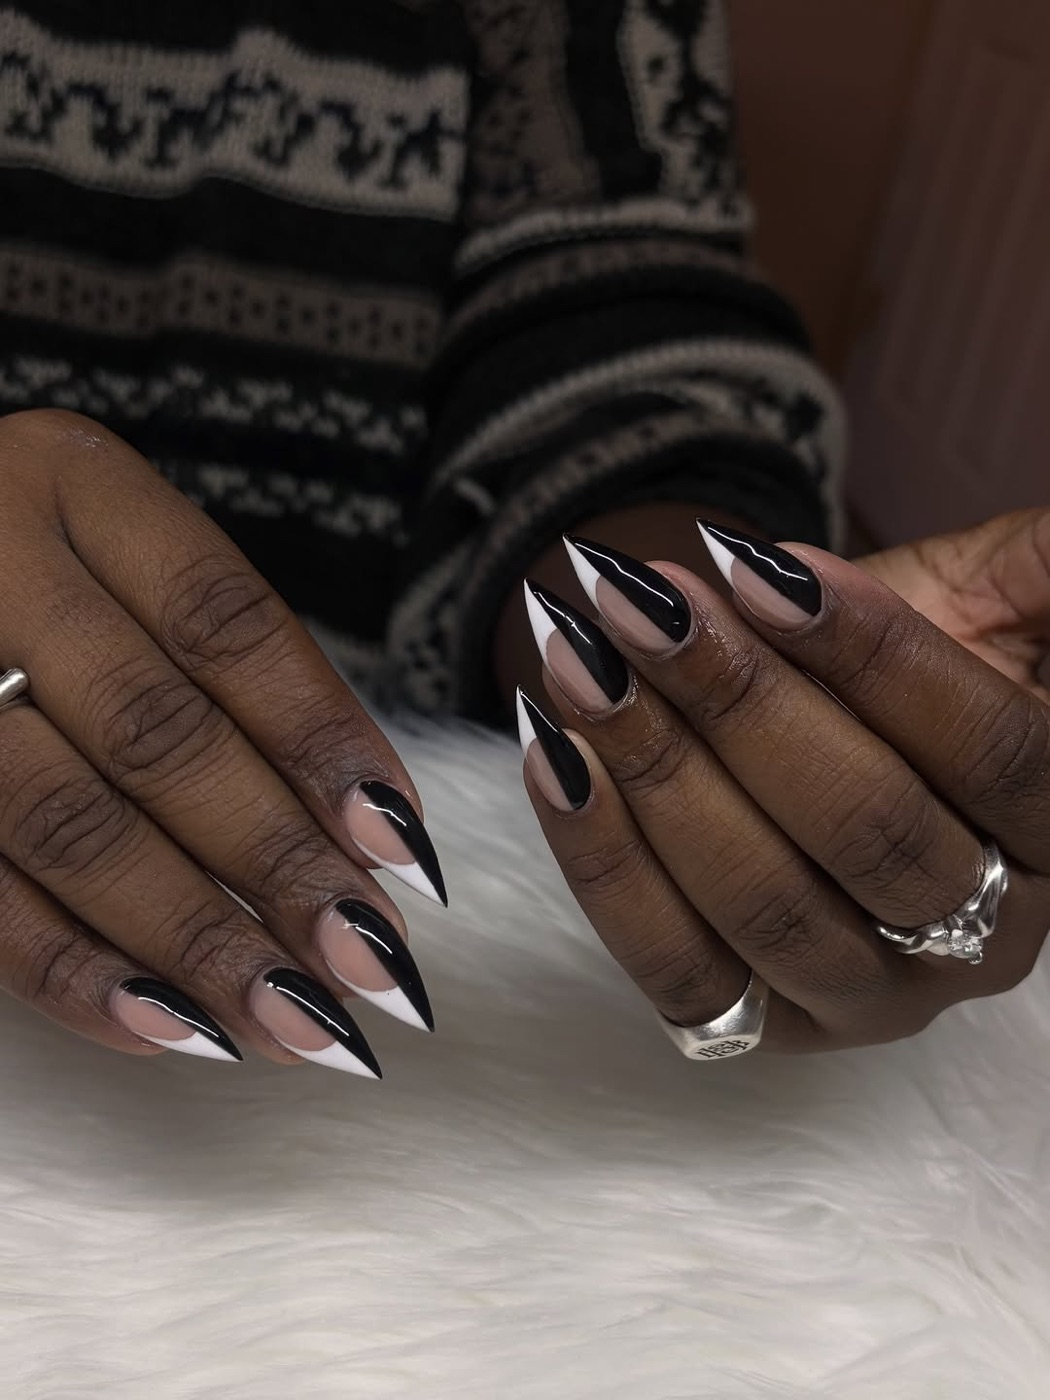
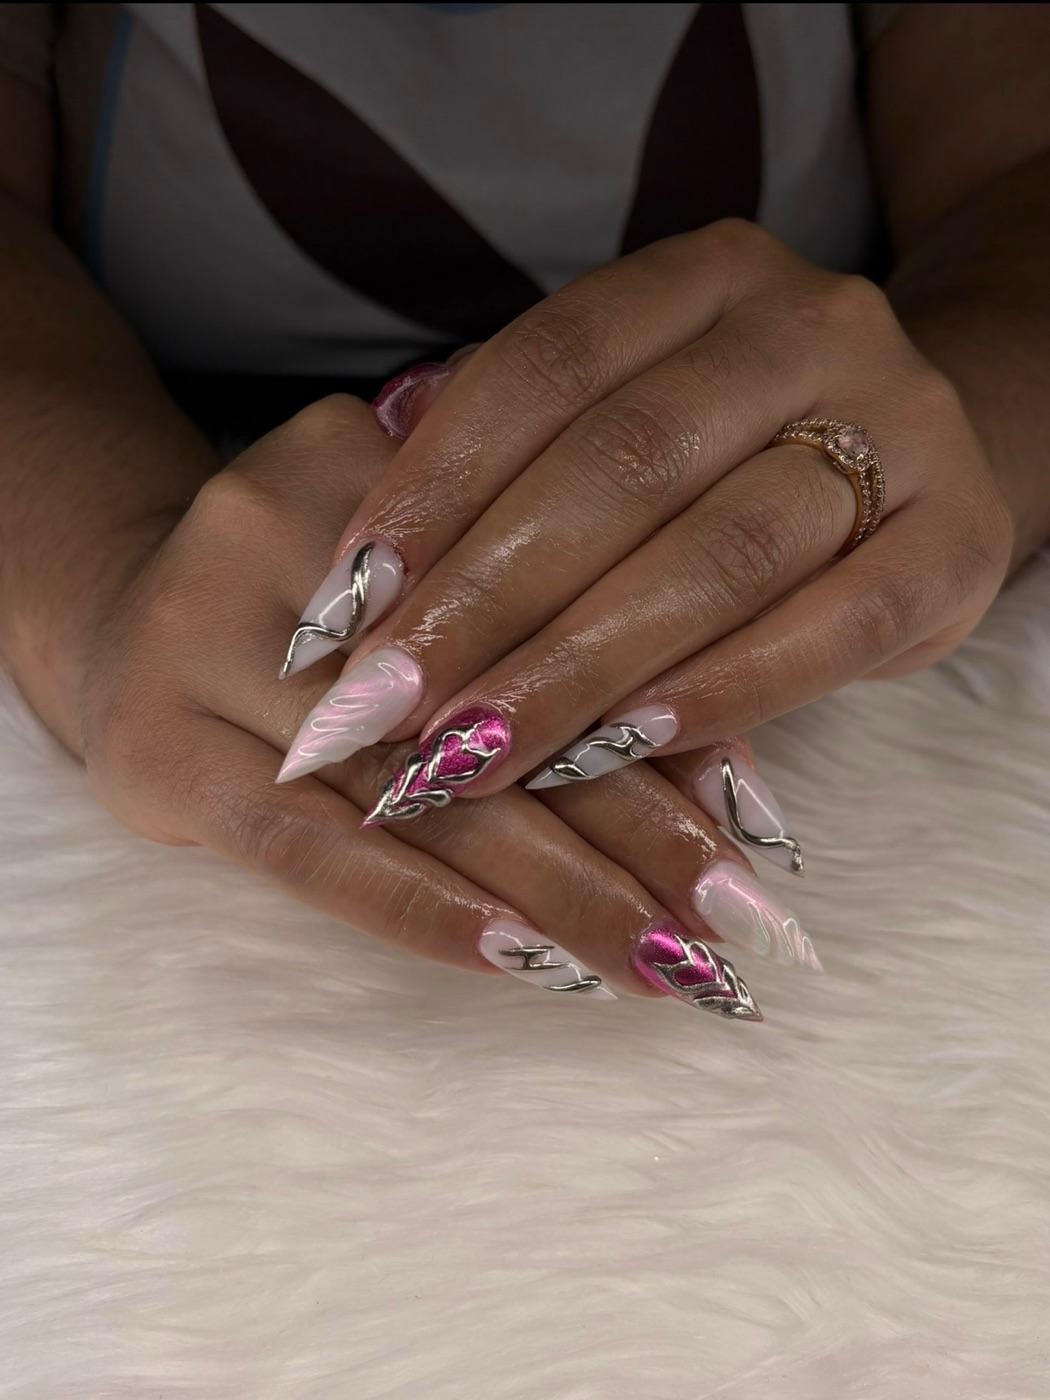
New client photos: hero + service cards; add Acrylic Fill, Gel-X Fill, split Mani & Pedi into Manicure/Pedicure (slots H/J/K)
Claude-Session: https://claude.ai/code/session_015TiHRKVxPHHGe8rpmT9PLr

diff --git a/index.html b/index.html
@@ -286,6 +286,15 @@
           <a class="btn" href="#" data-book data-service="Acrylic Full Set">Book this</a>
         </div>
       </article>
+      <article class="svc reveal" data-service="Acrylic Fill">
+        <div class="svc-img"><img src="assets/site/H.jpg" alt="Acrylic fill"></div>
+        <div class="svc-body">
+          <h3>Acrylic Fill</h3>
+          <span class="dep">Deposit required</span>
+          <div class="svc-row"><span class="price"><span class="from">from</span>$45</span><span class="dur">Short → XL</span></div>
+          <a class="btn" href="#" data-book data-service="Acrylic Fill">Book this</a>
+        </div>
+      </article>
       <article class="svc reveal" data-service="Gel-X Full Set">
         <div class="svc-img"><img src="assets/site/D.jpg" alt="Gel-X full set"></div>
         <div class="svc-body">
@@ -293,6 +302,15 @@
           <span class="dep">Deposit required</span>
           <div class="svc-row"><span class="price"><span class="from">from</span>$45</span><span class="dur">Short → XL</span></div>
           <a class="btn" href="#" data-book data-service="Gel-X Full Set">Book this</a>
+        </div>
+      </article>
+      <article class="svc reveal" data-service="Gel-X Fill">
+        <div class="svc-img"><img src="assets/site/J.jpg" alt="Gel-X fill"></div>
+        <div class="svc-body">
+          <h3>Gel-X Fill</h3>
+          <span class="dep">Deposit required</span>
+          <div class="svc-row"><span class="price"><span class="from">from</span>$40</span><span class="dur">Short → XL</span></div>
+          <a class="btn" href="#" data-book data-service="Gel-X Fill">Book this</a>
         </div>
       </article>
       <article class="svc reveal" data-service="Builder Gel">
@@ -304,14 +322,22 @@
           <a class="btn" href="#" data-book data-service="Builder Gel">Book this</a>
         </div>
       </article>
-      <!-- TODO: no mani/pedi photo in her feed — swap for a real mani/pedi shot from Mari -->
-      <article class="svc reveal" data-service="Mani & Pedi">
-        <div class="svc-img"><img src="assets/site/F.jpg" alt="Mani and pedi"></div>
+      <article class="svc reveal" data-service="Gel Mani">
+        <div class="svc-img"><img src="assets/site/F.jpg" alt="Manicure"></div>
         <div class="svc-body">
-          <h3>Mani &amp; Pedi</h3>
+          <h3>Manicure</h3>
           <span class="dep">Deposit required</span>
-          <div class="svc-row"><span class="price"><span class="from">from</span>$25</span><span class="dur">Toes &amp; hands</span></div>
-          <a class="btn" href="#" data-book data-service="Mani & Pedi">Book this</a>
+          <div class="svc-row"><span class="price"><span class="from">from</span>$25</span><span class="dur">Gel mani</span></div>
+          <a class="btn" href="#" data-book data-service="Gel Mani">Book this</a>
+        </div>
+      </article>
+      <article class="svc reveal" data-service="Gel Pedi">
+        <div class="svc-img"><img src="assets/site/K.jpg" alt="Pedicure"></div>
+        <div class="svc-body">
+          <h3>Pedicure</h3>
+          <span class="dep">Deposit required</span>
+          <div class="svc-row"><span class="price"><span class="from">from</span>$35</span><span class="dur">Gel pedi</span></div>
+          <a class="btn" href="#" data-book data-service="Gel Pedi">Book this</a>
         </div>
       </article>
     </div>
@@ -338,12 +364,19 @@
           <p class="pl-note">Soak-off after 3rd fill.</p>
         </div>
         <div class="pl-col">
-          <h4>Gel-X</h4>
+          <h4>Gel-X — Full Set</h4>
           <ul>
             <li><span class="name">Short</span><span class="lead"></span><span class="amt">$45</span></li>
             <li><span class="name">Medium</span><span class="lead"></span><span class="amt">$55</span></li>
             <li><span class="name">Long</span><span class="lead"></span><span class="amt">$65</span></li>
             <li><span class="name">XL</span><span class="lead"></span><span class="amt">$75+</span></li>
+          </ul>
+          <h4>Gel-X — Fill</h4>
+          <ul>
+            <li><span class="name">Short</span><span class="lead"></span><span class="amt">$40</span></li>
+            <li><span class="name">Medium</span><span class="lead"></span><span class="amt">$50</span></li>
+            <li><span class="name">Long</span><span class="lead"></span><span class="amt">$60</span></li>
+            <li><span class="name">XL</span><span class="lead"></span><span class="amt">$70+</span></li>
           </ul>
           <p class="pl-note">Soak-off after every set.</p>
           <h4>Builder Gel</h4>
@@ -498,7 +531,7 @@
 
 <script>
   const GHL_WIDGET_BASE = "https://api.leadconnectorhq.com/widget/booking/XC6BoVnM8Hzyq8bPdUR4";
-  const HANDS={"Acrylic Full Set":{Short:50,Medium:60,Long:70,XL:80},"Acrylic Fill":{Short:45,Medium:55,Long:65,XL:75},"Gel-X Full Set":{Short:45,Medium:55,Long:65,XL:75},"Builder Gel":{flat:45},"Gel Mani":{flat:25}};
+  const HANDS={"Acrylic Full Set":{Short:50,Medium:60,Long:70,XL:80},"Acrylic Fill":{Short:45,Medium:55,Long:65,XL:75},"Gel-X Full Set":{Short:45,Medium:55,Long:65,XL:75},"Gel-X Fill":{Short:40,Medium:50,Long:60,XL:70},"Builder Gel":{flat:45},"Gel Mani":{flat:25}};
   const FEET={"Gel Pedi":35,"Acrylic Big Toe":40,"Acrylic Toes (full set)":45};
   const ADDONS={"Soak off":10,"Foreign soak off":15};
   const LENGTHS=["Short","Medium","Long","XL"];

diff --git a/map.html b/map.html
@@ -55,7 +55,10 @@
     <div class="cell"><div class="ph"><img src="assets/site/C.jpg"></div><span class="badge">C</span><div class="cap"><b>Service:</b> Acrylic Full Set</div></div>
     <div class="cell"><div class="ph"><img src="assets/site/D.jpg"></div><span class="badge">D</span><div class="cap"><b>Service:</b> Gel-X Full Set</div></div>
     <div class="cell"><div class="ph"><img src="assets/site/E.jpg"></div><span class="badge">E</span><div class="cap"><b>Service:</b> Builder Gel</div></div>
-    <div class="cell"><div class="ph"><img src="assets/site/F.jpg"></div><span class="badge">F</span><div class="cap"><b>Service:</b> Mani &amp; Pedi</div></div>
+    <div class="cell"><div class="ph"><img src="assets/site/F.jpg"></div><span class="badge">F</span><div class="cap"><b>Service:</b> Manicure</div></div>
+    <div class="cell"><div class="ph"><img src="assets/site/H.jpg"></div><span class="badge">H</span><div class="cap"><b>Service:</b> Acrylic Fill</div></div>
+    <div class="cell"><div class="ph"><img src="assets/site/J.jpg"></div><span class="badge">J</span><div class="cap"><b>Service:</b> Gel-X Fill</div></div>
+    <div class="cell"><div class="ph"><img src="assets/site/K.jpg"></div><span class="badge">K</span><div class="cap"><b>Service:</b> Pedicure</div></div>
   </div>
 
   <h2>The Work gallery</h2>

diff --git a/EDITING.md b/EDITING.md
@@ -16,7 +16,10 @@ you the new photo + the letter; you run one command; it's live in ~1 minute.
 | C | Service card — Acrylic Full Set |
 | D | Service card — Gel-X Full Set |
 | E | Service card — Builder Gel |
-| F | Service card — Mani & Pedi |
+| F | Service card — Manicure |
+| H | Service card — Acrylic Fill |
+| J | Service card — Gel-X Fill |
+| K | Service card — Pedicure |
 | G1–G11 | "The Work" gallery, left→right, top→bottom |
 
 ## When Mari sends a new photo
